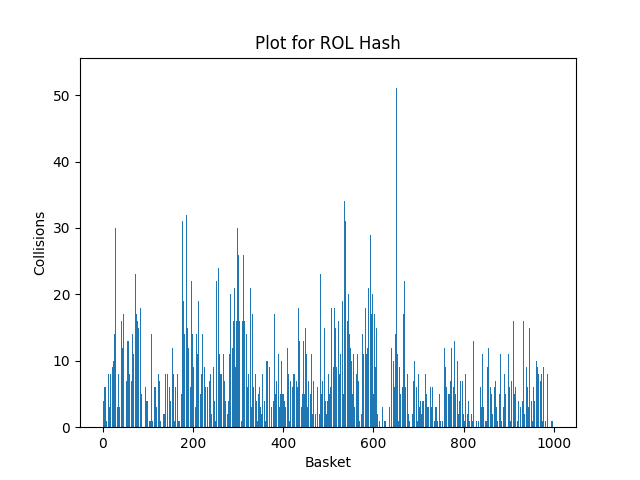
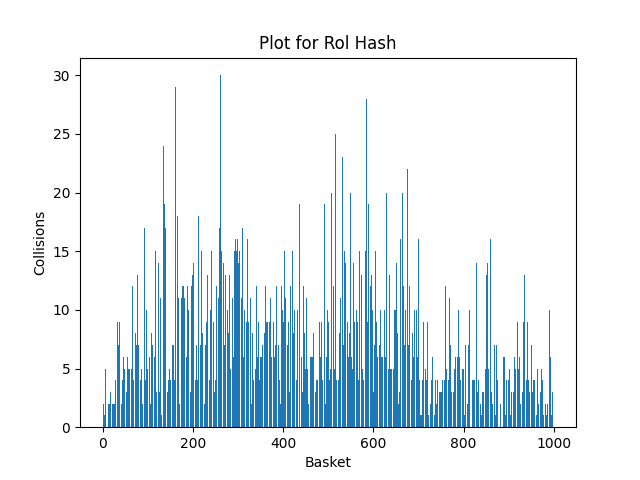
rol and ror fix

diff --git a/lib/graph.py b/lib/graph.py
@@ -5,7 +5,7 @@ import pandas as pd
 x = []
 y = []
 
-with open ("Strlenstat.csv", "r") as f:
+with open ("Rorstat.csv", "r") as f:
     for line in f:
         line = line.split(";")
         x = line
@@ -21,11 +21,20 @@ for i in range(len(x)):
 for i in range(len(x)):
     y.append(i)
 
+elements = 0
+lists = 0
+
+for i in range(len(x)):
+    if x[i] != 0:
+        elements += x[i]
+        lists += 1
+
+print("Load factor = ", elements/lists)
 print(np.var(x))
 
 plt.bar(y,x)
 
-plt.title('Plot for Strlen Hash')
+plt.title('Plot for Ror Hash')
 plt.xlabel('Basket')
 plt.ylabel('Collisions')
 

diff --git a/hashfunc.cpp b/hashfunc.cpp
@@ -42,7 +42,7 @@ unsigned int RolHash(const char* input)
 
 unsigned int RolFunc(int input, int shift)
 {
-    return (input << shift) | (input >> (sizeof (int) - shift));
+    return (input << shift) | (input >> (32 - shift));
 }
 
 unsigned int RorHash(const char* input)
@@ -59,7 +59,7 @@ unsigned int RorHash(const char* input)
 
 unsigned int RorFunc(int input, int shift)
 {
-    return (input >> shift) | (input << (sizeof (int) - shift));
+    return (input >> shift) | (input << (32 - shift));
 }
 
 unsigned int MurMurHash(const char* data)

diff --git a/main.cpp b/main.cpp
@@ -24,10 +24,10 @@ int main()
     char** words = SplitTextIntoWords(input.ptr);
 
     HashTable table = {};
-    HashTableCtor(&table, *RolHash, 1000);
+    HashTableCtor(&table, *RorHash, 1000);
 
     HashTableLoad(&table, words);
-    Statistics(&table, statfile5);
+    Statistics(&table, statfile6);
 
     HashTableDtor(&table);
     free(words);
